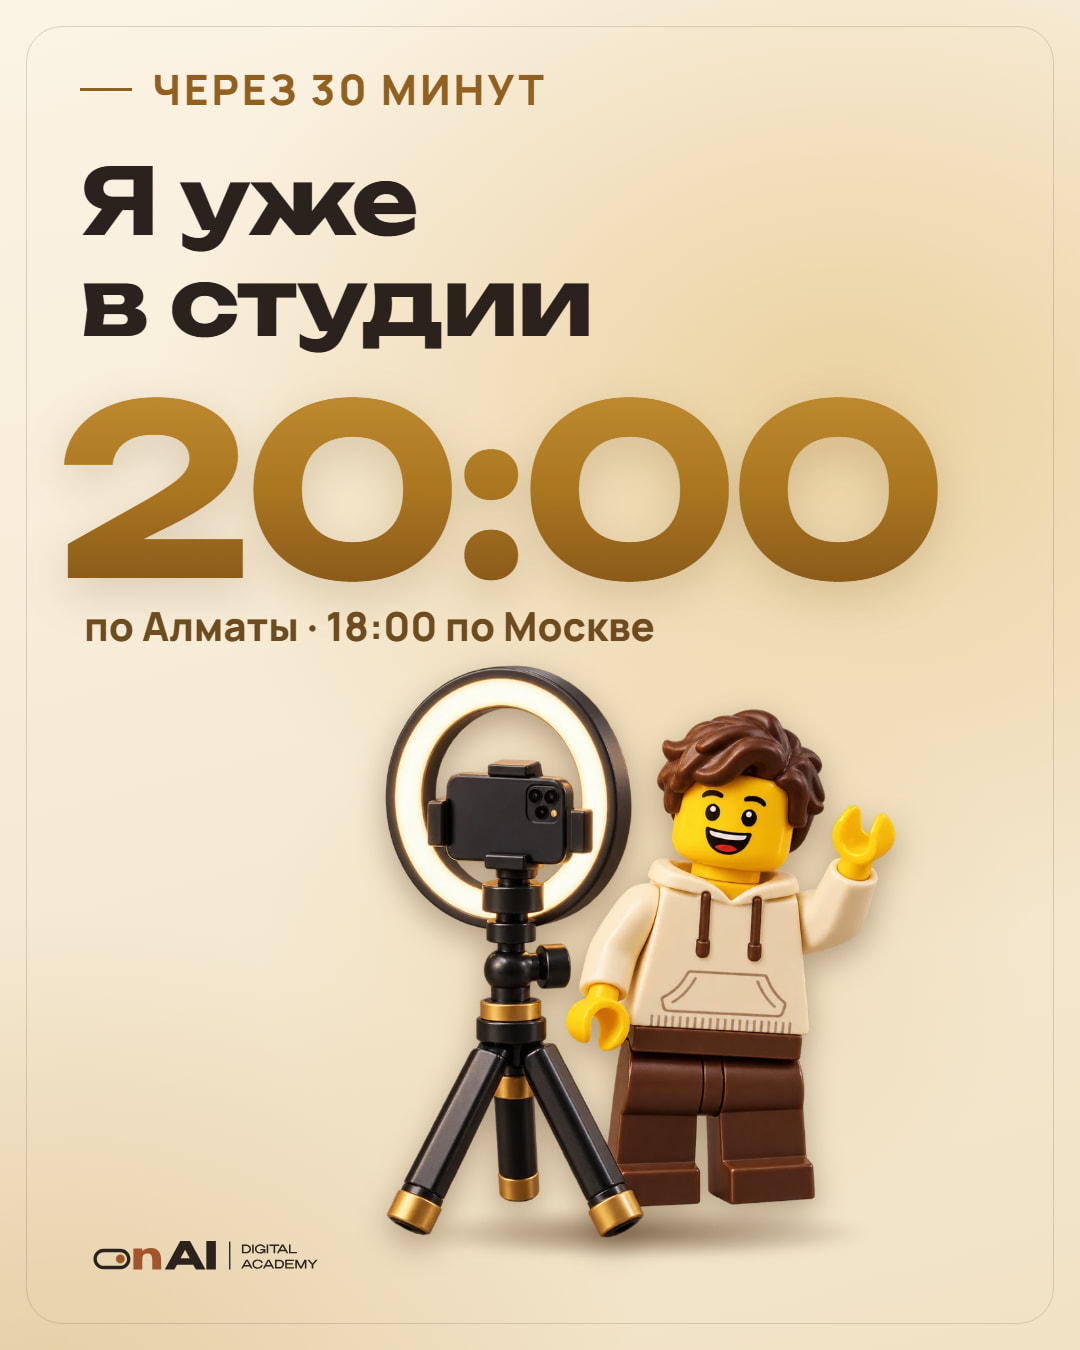
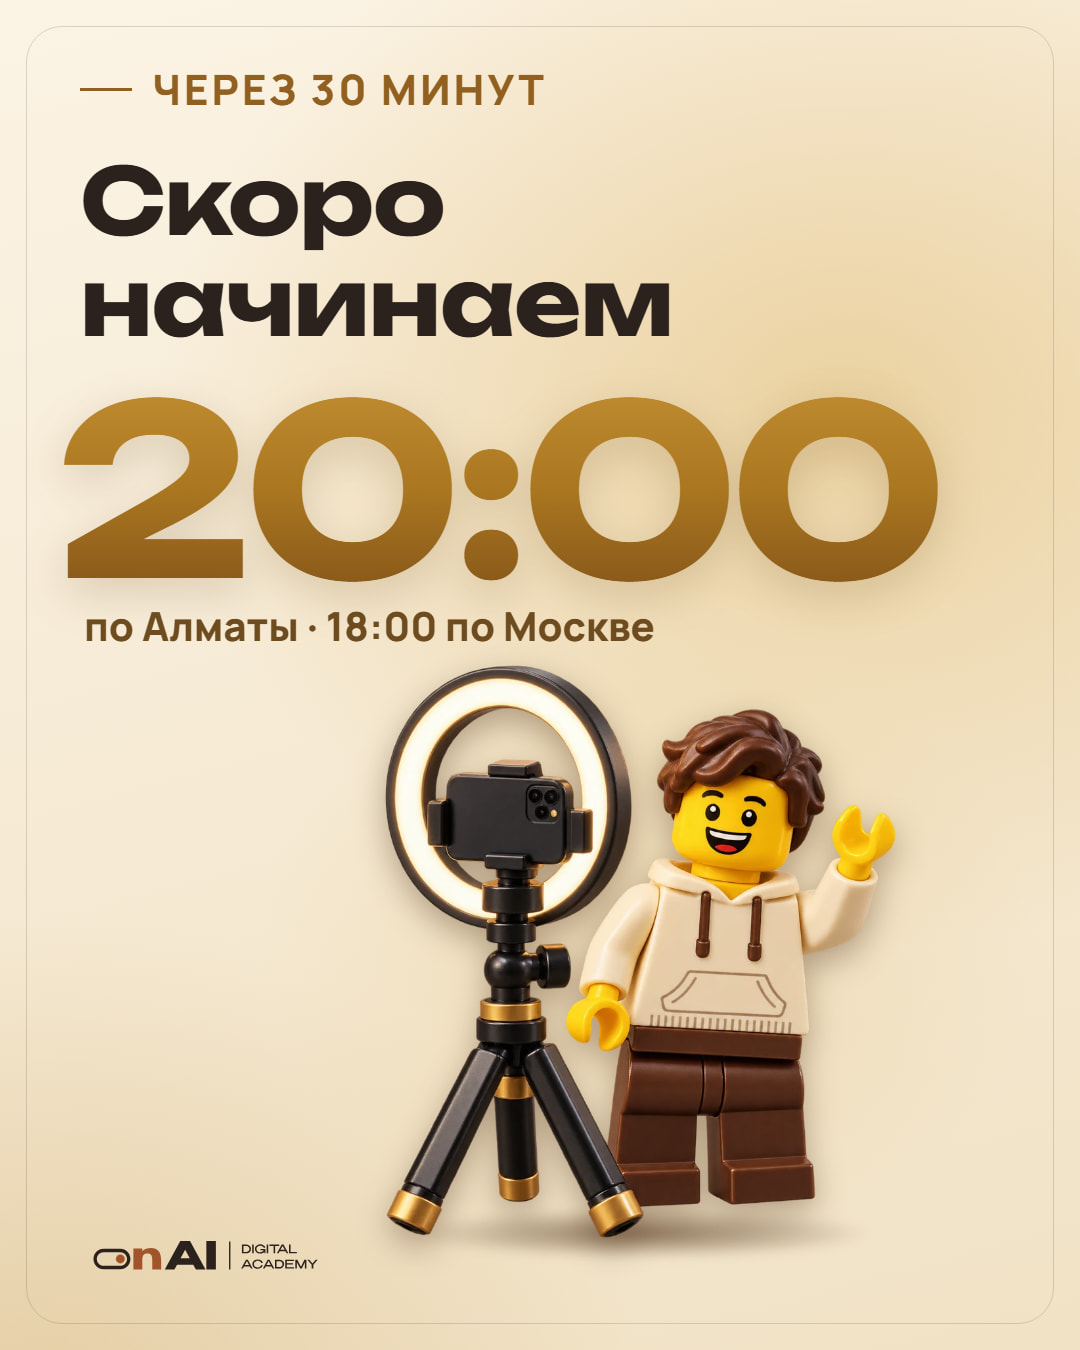
Рассылки под автовеб 10.10 по записи эфира 09.10
Без «вместе соберём ролик», «Я уже в студии», «Записи не будет» и «задай вопрос в чате»:
на записи видеоурок, Александра в студии нет, эфир повторяется каждый день.
Telegram по таймингу записи (старт с 4:30): последняя ссылка 20:29 к видеоуроку,
курс 20:55 к цене, бонусы 21:08, оффер 21:12 после конца (21:11).
WhatsApp: время прежнее, тексты 20:15 и 20:58 под запись (в ветке feat/wa-groups).
19:50 и 20:00 начинаются с интро, которое собрал ИИ; в оффере бонус «35 стилей монтажа».
Карточка 19:30 «Скоро начинаем» вместо «Я уже в студии», адрес ?v=1010a.

Changed region(s): [[0.0611, 0.1244, 0.6417, 0.28]]

diff --git a/form-api/tg.test.ts b/form-api/tg.test.ts
@@ -777,9 +777,9 @@ test("tg-series.json: воркшоп только про AI-монтаж, про
   assert.match(raw.welcome.media.url, /cover-bizon\.jpg\?v=0910a$/);
   const photos = sr.messages.filter((m) => m.media?.type === "photo");
   assert.ok(photos.length >= 15, "карточки есть почти у всех сообщений");
-  // карточка 14:00 перерисована 09.10 (окно CapCut перечёркнуто), ей новая версия адреса 1009c; остальные 0910a
+  // карточка 14:00 перерисована 09.10 (окно CapCut перечёркнуто), ей новая версия адреса 1009c; 19:30 перерисована 10.10 под автовеб («Скоро начинаем»), 1010a; остальные 0910a
   for (const m of photos) {
-    const ver = m.id === "warm-1400" ? "1009c" : "0910a";
+    const ver = m.id === "warm-1400" ? "1009c" : m.id === "warm-1930" ? "1010a" : "0910a";
     assert.match(m.media!.url, new RegExp("^https://onai\\.academy/workshop-montazh/assets/tg/[a-z0-9-]+\\.jpg\\?v=" + ver + "$"), m.id);
   }
   assert.equal(byId.get("warm-1400")!.media!.url, "https://onai.academy/workshop-montazh/assets/tg/warm-edits.jpg?v=1009c");
@@ -807,7 +807,7 @@ test("tg-series.json: воркшоп только про AI-монтаж, про
   for (const id of ["offer-2118", "push-2230", "push-2330", "follow-1030", "follow-1500", "follow-2145"]) assert.equal(byId.get(id)!.audience, "clickedNotPaid", id);
   assert.equal(/₸/.test(raw.welcome.before), false, "в подтверждении записи цены нет");
   for (const m of sr.messages) {
-    if (m.audience === "notClicked" || (m.dayOffset ?? 0) === 0 && m.at < "21:18") assert.equal(/₸/.test(m.text), false, m.id + ": цена до эфира или тем, кто не был на эфире");
+    if (m.audience === "notClicked" || (m.dayOffset ?? 0) === 0 && m.at < "21:12") assert.equal(/₸/.test(m.text), false, m.id + ": цена до эфира или тем, кто не был на эфире");
   }
   assert.match(byId.get("next-day-1100")!.text, /Цену курса назову только участникам эфира\./);
   // подарок за покупку до конца дня из трёх частей назван целиком там, где его перечисляют (лента эфира 20:58, оффер, последний звонок, дожимы):

diff --git a/docs/tg-media/card.html b/docs/tg-media/card.html
@@ -388,7 +388,7 @@ const cards = {
   // ---------- 09.10.2026: картинка к каждому сообщению серии (Александр: «читать без картинки скучно, нужен хук») ----------
   "t-minus-30": {
     cls: "topic light", gx: "78%", gy: "30%", light: 1,
-    html: `${lab("ЧЕРЕЗ 30 МИНУТ")}${head("Я уже<br>в студии", 92)}
+    html: `${lab("ЧЕРЕЗ 30 МИНУТ")}${head("Скоро<br>начинаем", 92)}
       <div class="big" style="left:56px;top:372px;font-size:236px">20:00</div>
       <div class="clock" style="left:84px;top:606px;font-size:40px;letter-spacing:0;font-family:Manrope,sans-serif;font-weight:800;color:#6b4a1e">по Алматы · 18:00 по Москве</div>
       ${glow(260, 640, 780, 620, .55)}
